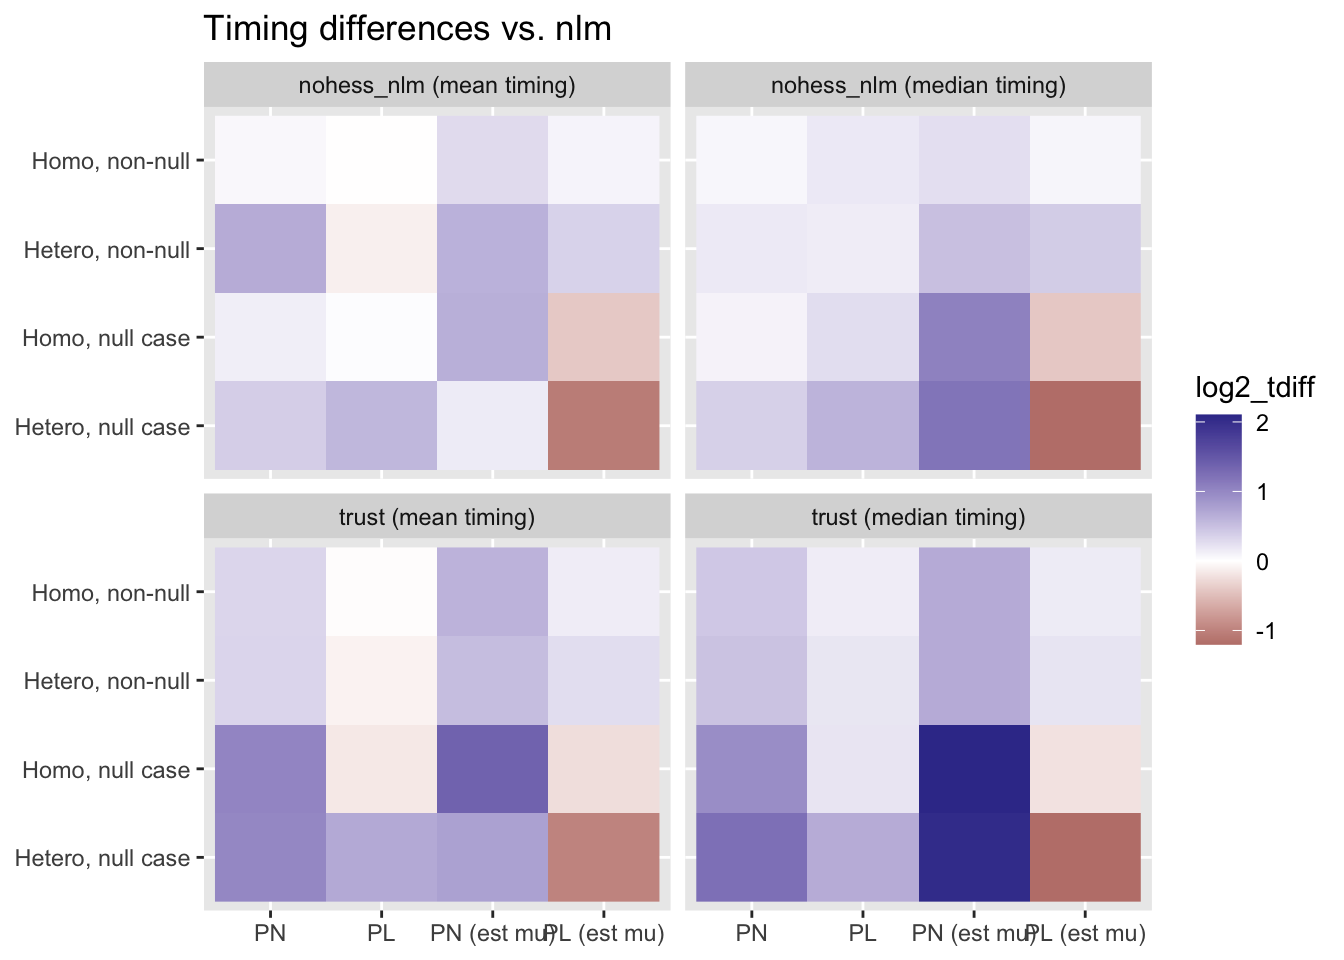
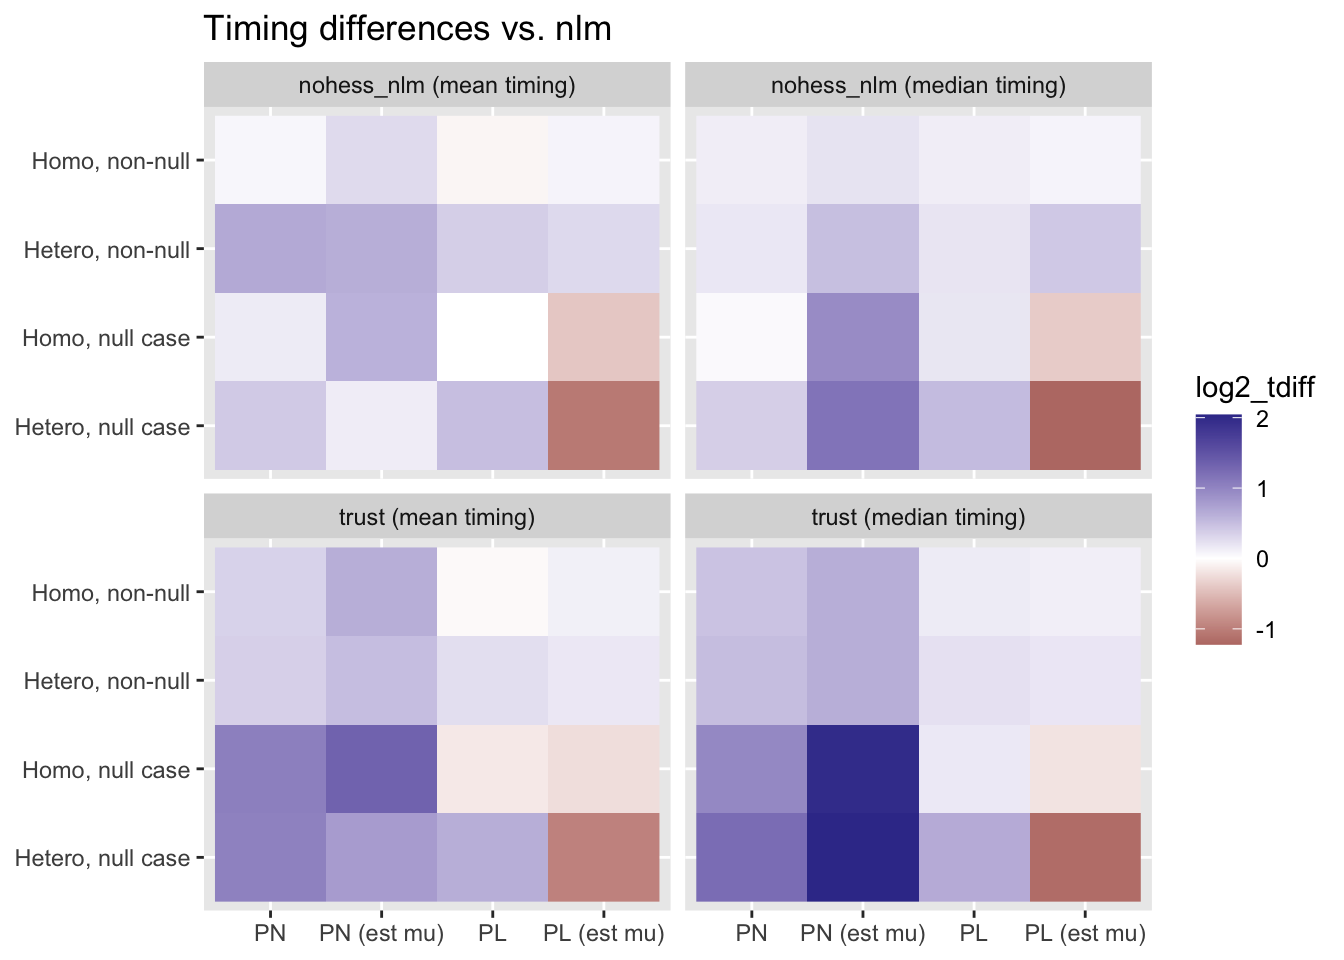
Build site.

diff --git a/docs/optmethods.html b/docs/optmethods.html
@@ -443,10 +443,10 @@ This reproducible <a href="http://rmarkdown.rstudio.com">R Markdown</a> analysis
 <div class="panel panel-default">
 <div class="panel-heading">
 <p class="panel-title">
-<a data-toggle="collapse" data-parent="#workflowr-checks" href="#strongRepositoryversionstrongahrefhttpsgithubcomwillwerscheidebnmpapertreeee646460920ec2403a43954a1a040756a079874ctargetblankee64646a"> <span class="glyphicon glyphicon-ok text-success" aria-hidden="true"></span> <strong>Repository version:</strong> <a href="https://github.com/willwerscheid/ebnm-paper/tree/ee646460920ec2403a43954a1a040756a079874c" target="_blank">ee64646</a> </a>
+<a data-toggle="collapse" data-parent="#workflowr-checks" href="#strongRepositoryversionstrongahrefhttpsgithubcomwillwerscheidebnmpapertreee9d9fe3f5b1ee608cf4fd0610742d6badf944b1atargetblanke9d9fe3a"> <span class="glyphicon glyphicon-ok text-success" aria-hidden="true"></span> <strong>Repository version:</strong> <a href="https://github.com/willwerscheid/ebnm-paper/tree/e9d9fe3f5b1ee608cf4fd0610742d6badf944b1a" target="_blank">e9d9fe3</a> </a>
 </p>
 </div>
[2 lines of base64/hex data omitted]
 <div class="panel-body">
 <p>
 Great! You are using Git for version control. Tracking code development and connecting the code version to the results is critical for reproducibility. The version displayed above was the version of the Git repository at the time these results were generated. <br><br> Note that you need to be careful to ensure that all relevant files for the analysis have been committed to Git prior to generating the results (you can use <code>wflow_publish</code> or <code>wflow_git_commit</code>). workflowr only checks the R Markdown file, but you know if there are other scripts or data files that it depends on. Below is the status of the Git repository when the results were generated:
@@ -496,6 +496,40 @@ Message
 </tr>
 </thead>
 <tbody>
+<tr>
+<td>
+Rmd
+</td>
+<td>
+<a href="https://github.com/willwerscheid/ebnm-paper/blob/e9d9fe3f5b1ee608cf4fd0610742d6badf944b1a/analysis/optmethods.Rmd" target="_blank">e9d9fe3</a>
+</td>
+<td>
+Jason Willwerscheid
+</td>
+<td>
+2021-01-13
+</td>
+<td>
+wflow_publish(“analysis/optmethods.Rmd”)
+</td>
+</tr>
+<tr>
+<td>
+html
+</td>
+<td>
+<a href="https://rawcdn.githack.com/willwerscheid/ebnm-paper/da9666115acc06143021cd47ca5419ea3ed800eb/docs/optmethods.html" target="_blank">da96661</a>
+</td>
+<td>
+Jason Willwerscheid
+</td>
+<td>
+2021-01-13
+</td>
+<td>
+Build site.
+</td>
+</tr>
 <tr>
 <td>
 Rmd
@@ -719,7 +753,7 @@ plot_one_n &lt;- function(res) {
            y = factor(paste0(ifelse(homosked, &quot;Homo, &quot;, &quot;Hetero, &quot;),
                              ifelse(null_case, &quot;null case&quot;, &quot;non-null&quot;))),
            facet = paste0(comparison_method, &quot; (&quot;, sumstat, &quot; timing)&quot;)) %&gt;%
-    mutate(x = fct_relevel(x, &quot;PN&quot;, &quot;PL&quot;, &quot;PN (est mu)&quot;, &quot;PL (est mu)&quot;),
+    mutate(x = fct_relevel(x, &quot;PN&quot;, &quot;PN (est mu)&quot;, &quot;PL&quot;, &quot;PL (est mu)&quot;),
            y = fct_relevel(y, &quot;Hetero, null case&quot;, &quot;Homo, null case&quot;, 
                            &quot;Hetero, non-null&quot;, &quot;Homo, non-null&quot;)) %&gt;%
     mutate(log2_tdiff = log2(tdiff))
@@ -761,6 +795,17 @@ Date
 </tr>
 </thead>
 <tbody>
+<tr>
+<td>
+<a href="https://github.com/willwerscheid/ebnm-paper/blob/da9666115acc06143021cd47ca5419ea3ed800eb/docs/figure/optmethods.Rmd/n1000-1.png" target="_blank">da96661</a>
+</td>
+<td>
+Jason Willwerscheid
+</td>
+<td>
+2021-01-13
+</td>
+</tr>
 <tr>
 <td>
 <a href="https://github.com/willwerscheid/ebnm-paper/blob/f073d621e5522f0cc1f99deb4ca6c05a72ec56d3/docs/figure/optmethods.Rmd/n1000-1.png" target="_blank">f073d62</a>
@@ -816,6 +861,17 @@ Date
 <tbody>
 <tr>
 <td>
+<a href="https://github.com/willwerscheid/ebnm-paper/blob/da9666115acc06143021cd47ca5419ea3ed800eb/docs/figure/optmethods.Rmd/n10000-1.png" target="_blank">da96661</a>
+</td>
+<td>
+Jason Willwerscheid
+</td>
+<td>
+2021-01-13
+</td>
+</tr>
+<tr>
+<td>
 <a href="https://github.com/willwerscheid/ebnm-paper/blob/f073d621e5522f0cc1f99deb4ca6c05a72ec56d3/docs/figure/optmethods.Rmd/n10000-1.png" target="_blank">f073d62</a>
 </td>
 <td>
@@ -867,6 +923,17 @@ Date
 </tr>
 </thead>
 <tbody>
+<tr>
+<td>
+<a href="https://github.com/willwerscheid/ebnm-paper/blob/da9666115acc06143021cd47ca5419ea3ed800eb/docs/figure/optmethods.Rmd/n100000-1.png" target="_blank">da96661</a>
+</td>
+<td>
+Jason Willwerscheid
+</td>
+<td>
+2021-01-13
+</td>
+</tr>
 <tr>
 <td>
 <a href="https://github.com/willwerscheid/ebnm-paper/blob/f073d621e5522f0cc1f99deb4ca6c05a72ec56d3/docs/figure/optmethods.Rmd/n100000-1.png" target="_blank">f073d62</a>
